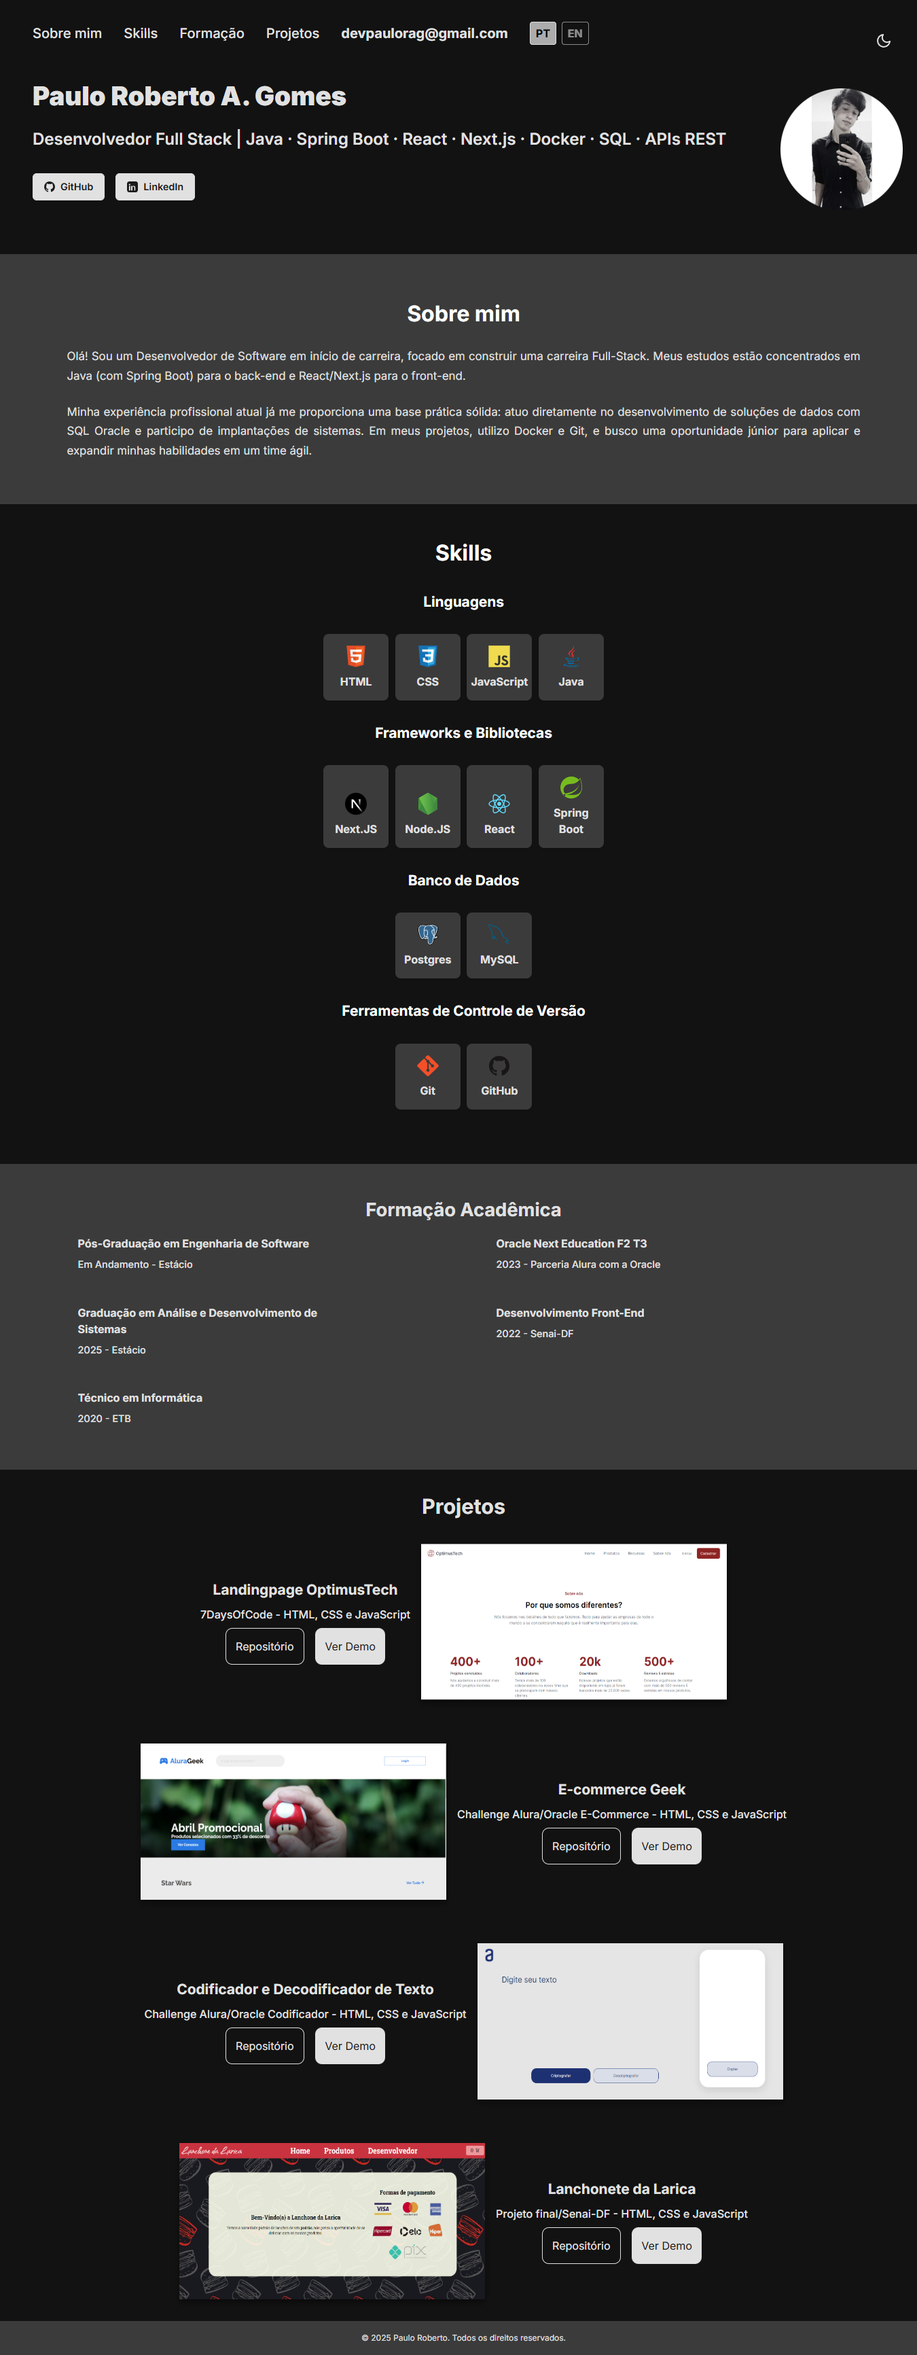
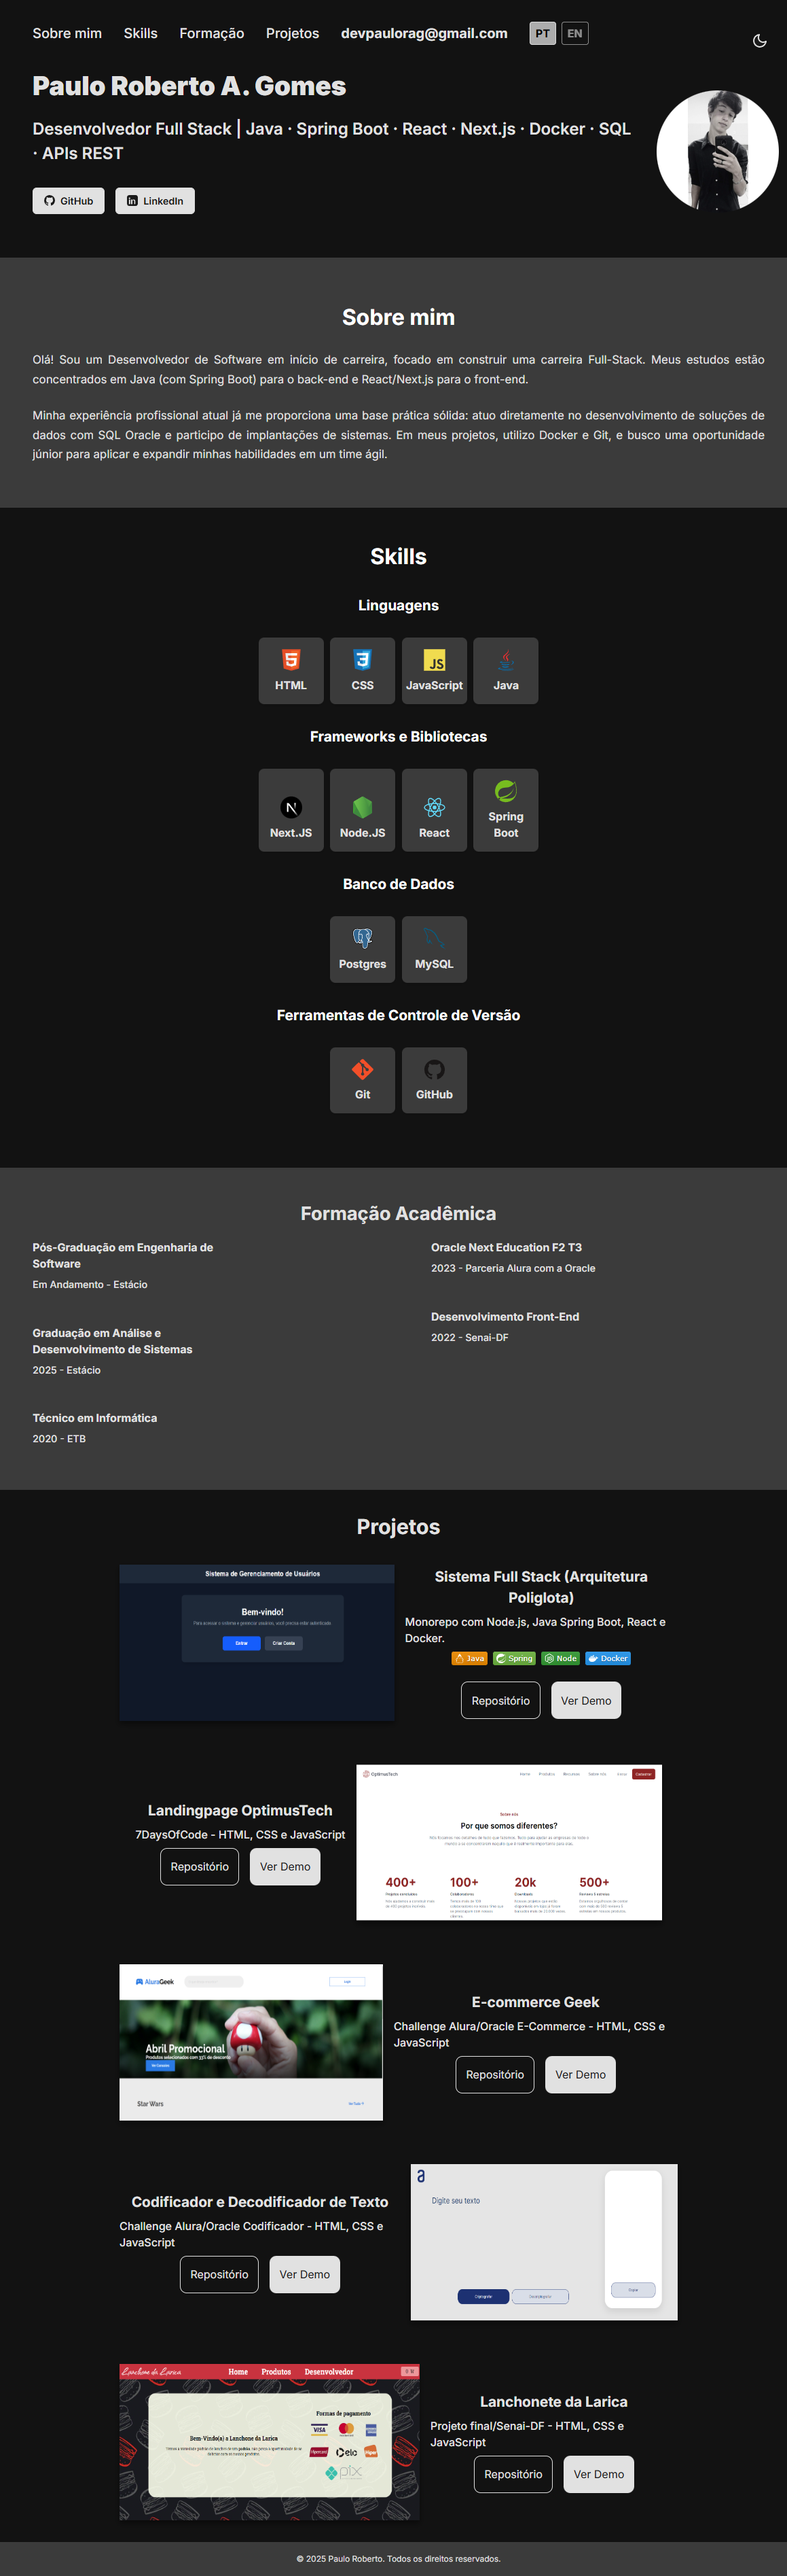
feat: adds a new project full stack

Changed region(s): [[0.0, 0.0, 1.0, 0.9971]]

diff --git a/index.html b/index.html
@@ -196,6 +196,39 @@
             <h2 class="experiencia__titulo" data-key="projects_title">Projetos</h2>
             <div class="experiencia__projetos">
 
+                <article class="experiencia__bloco" aria-labelledby="projeto-fullstack">
+                    <div class="experiencia__bloco_frame">
+                        <img class="experiencia__bloco_imagem" src="assets/image/projetos/fullstack-preview.png"
+                            alt="Preview do Sistema Full Stack">
+                    </div>
+                    <div class="experiencia__bloco_info">
+                        <h3 class="experiencia__bloco_titulo" data-key="proj0_title">Sistema Full Stack (Arquitetura
+                            Poliglota)</h3>
+                        <p class="experiencia__bloco_descricao" data-key="proj0_desc">Monorepo com Node.js, Java Spring
+                            Boot, React e Docker.</p>
+
+                        <div style="display: flex; gap: 8px; flex-wrap: wrap; margin-bottom: 16px;">
+                            <img src="https://img.shields.io/badge/Java-ED8B00?style=flat&logo=openjdk&logoColor=white"
+                                alt="Java">
+                            <img src="https://img.shields.io/badge/Spring-6DB33F?style=flat&logo=spring&logoColor=white"
+                                alt="Spring">
+                            <img src="https://img.shields.io/badge/Node-339933?style=flat&logo=nodedotjs&logoColor=white"
+                                alt="Node">
+                            <img src="https://img.shields.io/badge/Docker-2496ED?style=flat&logo=docker&logoColor=white"
+                                alt="Docker">
+                        </div>
+
+                        <div class="experiencia__bloco_botao">
+                            <a class="experiencia__bloco_botao--transparente"
+                                href="https://github.com/paulorag/polyglot-user-system" target="_blank"
+                                data-key="proj_btn_repo">Repositório</a>
+
+                            <a class="experiencia__bloco_botao--solido" href="https://polyglot-user-system.vercel.app/"
+                                target="_blank" data-key="proj_btn_demo">Ver Demo</a>
+                        </div>
+                    </div>
+                </article>
+
                 <article class="experiencia__bloco--reverse" aria-labelledby="projeto-optimustech">
                     <div class="experiencia__bloco_frame">
                         <img class="experiencia__bloco_imagem" src="assets/image/projetos/optimus-tech.png"

diff --git a/assets/scripts/translations.js b/assets/scripts/translations.js
@@ -62,10 +62,13 @@ export const translations = {
         // Seção Projetos
         projects_title: "Projetos",
 
-        proj1_title: "Landingpage OptimusTech",
-        proj1_desc: "7DaysOfCode - HTML, CSS e JavaScript",
+        proj0_title: "Sistema Full Stack (Arquitetura Poliglota)",
+        proj0_desc: "Monorepo com Node.js, Java Spring Boot, React e Docker.",
         proj_btn_repo: "Repositório",
         proj_btn_demo: "Ver Demo",
+
+        proj1_title: "Landingpage OptimusTech",
+        proj1_desc: "7DaysOfCode - HTML, CSS e JavaScript",
 
         proj2_title: "E-commerce Geek",
         proj2_desc:
@@ -144,10 +147,14 @@ export const translations = {
         // Projects Section
         projects_title: "My Projects",
 
-        proj1_title: "OptimusTech Landing Page",
-        proj1_desc: "7DaysOfCode - HTML, CSS, and JavaScript",
+        proj0_title: "Full Stack System (Polyglot Arch)",
+        proj0_desc:
+            "Monorepo with Node.js, Java Spring Boot, React, and Docker.",
         proj_btn_repo: "Repository",
         proj_btn_demo: "View Demo",
+
+        proj1_title: "OptimusTech Landing Page",
+        proj1_desc: "7DaysOfCode - HTML, CSS, and JavaScript",
 
         proj2_title: "Geek E-commerce",
         proj2_desc:
